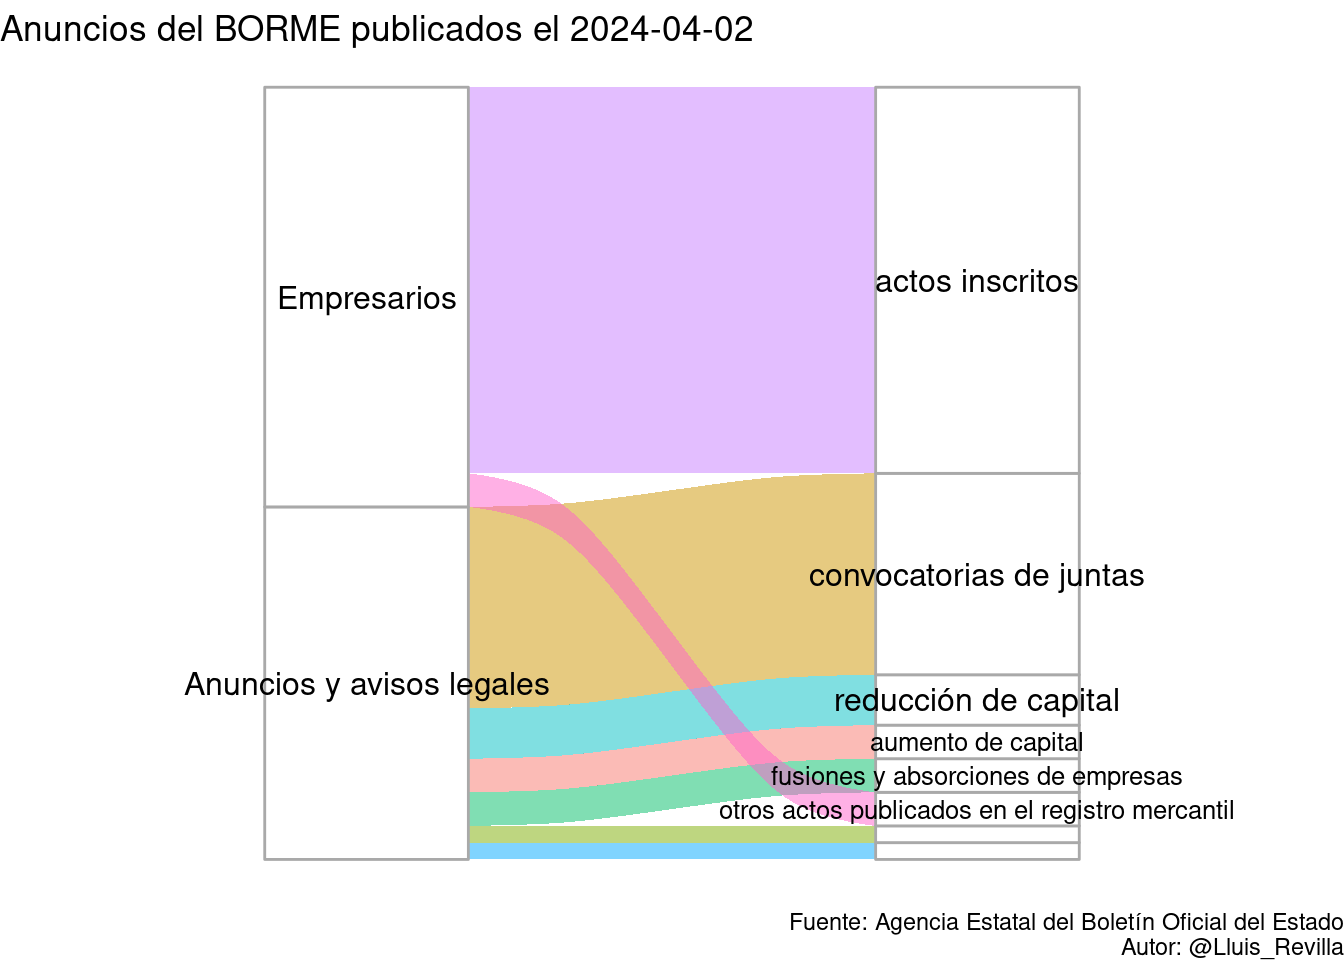
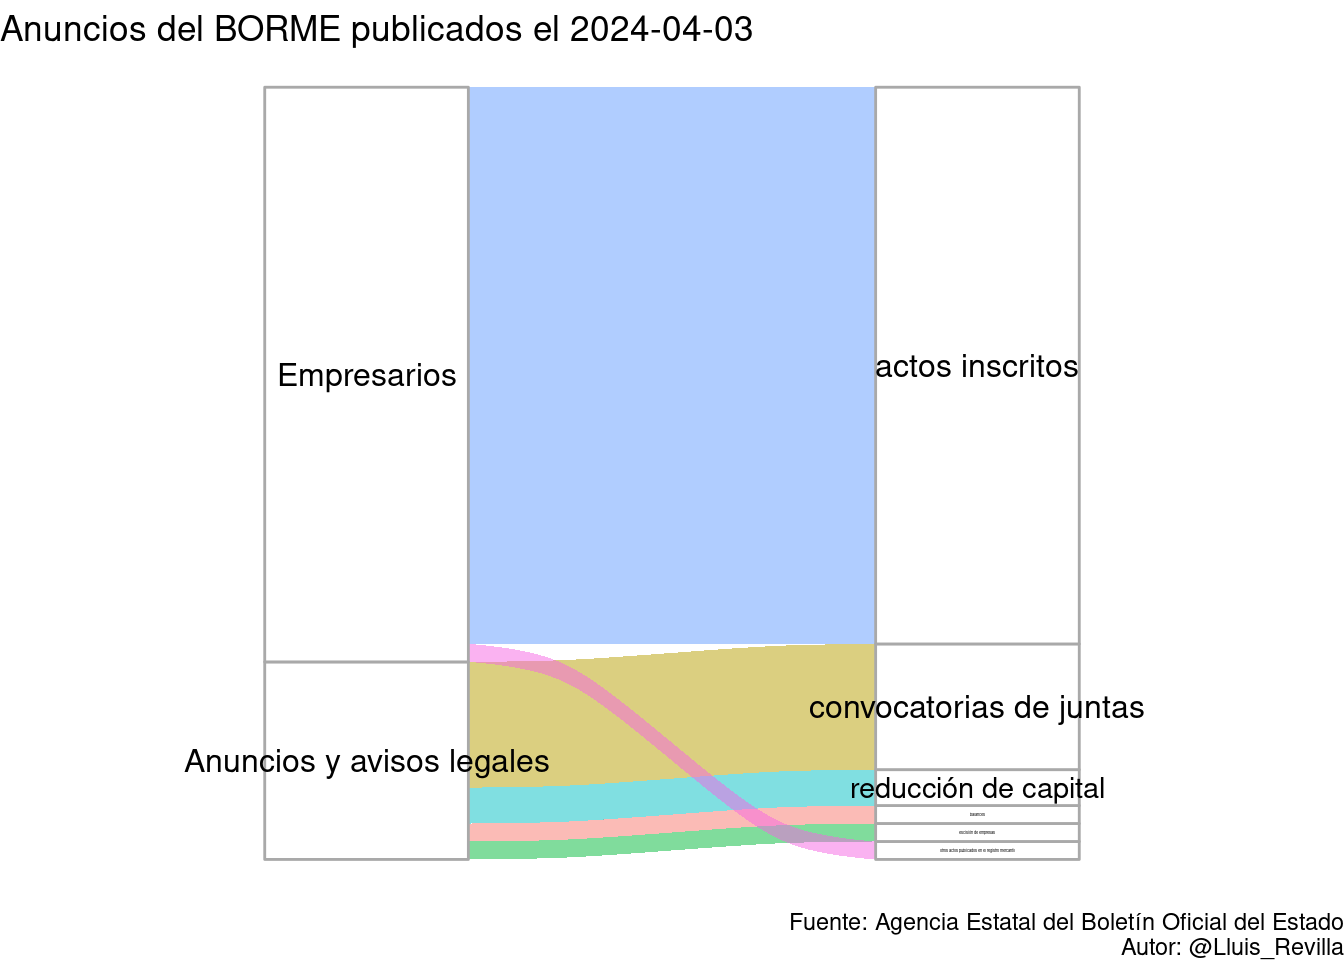
Update BORME

Changed region(s): [[0.125, 0.0938, 0.9062, 0.9062]]

diff --git a/docs/last_BORME.html b/docs/last_BORME.html
@@ -379,14 +379,14 @@ $(document).ready(function () {
 
 <div id="resumen-gráfico" class="section level1">
 <h1>Resumen gráfico</h1>
-<p>Esta página web contiene el último sumario del BORME publicado el 2024-04-02 con 46 publicaciones.</p>
+<p>Esta página web contiene el último sumario del BORME publicado el 2024-04-03 con 43 publicaciones.</p>
 <p><img src="last_BORME_files/figure-html/graphics-1.png" width="672" /></p>
 </div>
 <div id="tabla-de-publicaciones" class="section level1">
 <h1>Tabla de publicaciones</h1>
 <p>Aquí está la tabla completa con enlaces a las publicaciones:</p>
-<div class="datatables html-widget html-fill-item-overflow-hidden html-fill-item" id="htmlwidget-b410982b945f531b51b2" style="width:100%;height:auto;"></div>
-<script type="application/json" data-for="htmlwidget-b410982b945f531b51b2">{"x":{"filter":"top","vertical":false,"filterHTML":"<tr>\n  <td><\/td>\n  <td data-type=\"character\" style=\"vertical-align: top;\">\n    <div class=\"form-group has-feedback\" style=\"margin-bottom: auto;\">\n      <input type=\"search\" placeholder=\"All\" class=\"form-control\" style=\"width: 100%;\"/>\n      <span class=\"glyphicon glyphicon-remove-circle form-control-feedback\"><\/span>\n    <\/div>\n  <\/td>\n  <td data-type=\"character\" style=\"vertical-align: top;\">\n    <div class=\"form-group has-feedback\" style=\"margin-bottom: auto;\">\n      <input type=\"search\" placeholder=\"All\" class=\"form-control\" style=\"width: 100%;\"/>\n      <span class=\"glyphicon glyphicon-remove-circle form-control-feedback\"><\/span>\n    <\/div>\n  <\/td>\n  <td data-type=\"character\" style=\"vertical-align: top;\">\n    <div class=\"form-group has-feedback\" style=\"margin-bottom: auto;\">\n      <input type=\"search\" placeholder=\"All\" class=\"form-control\" style=\"width: 100%;\" disabled=\"\"/>\n      <span class=\"glyphicon glyphicon-remove-circle form-control-feedback\"><\/span>\n    <\/div>\n  <\/td>\n  <td data-type=\"character\" style=\"vertical-align: top;\">\n    <div class=\"form-group has-feedback\" style=\"margin-bottom: auto;\">\n      <input type=\"search\" placeholder=\"All\" class=\"form-control\" style=\"width: 100%;\"/>\n      <span class=\"glyphicon glyphicon-remove-circle form-control-feedback\"><\/span>\n    <\/div>\n  <\/td>\n<\/tr>","data":[["1","2","3","4","5","6","7","8","9","10","11","12","13","14","15","16","17","18","19","20","21","22","23","24","25","26","27","28","29","30","31","32","33","34","35","36","37","38","39","40","41","42","43","44","45","46"],["SECCIÓN PRIMERA. Empresarios","SECCIÓN PRIMERA. Empresarios","SECCIÓN PRIMERA. Empresarios","SECCIÓN PRIMERA. Empresarios","SECCIÓN PRIMERA. Empresarios","SECCIÓN PRIMERA. Empresarios","SECCIÓN PRIMERA. Empresarios","SECCIÓN PRIMERA. Empresarios","SECCIÓN PRIMERA. Empresarios","SECCIÓN PRIMERA. Empresarios","SECCIÓN PRIMERA. Empresarios","SECCIÓN PRIMERA. Empresarios","SECCIÓN PRIMERA. Empresarios","SECCIÓN PRIMERA. Empresarios","SECCIÓN PRIMERA. Empresarios","SECCIÓN PRIMERA. Empresarios","SECCIÓN PRIMERA. Empresarios","SECCIÓN PRIMERA. Empresarios","SECCIÓN PRIMERA. Empresarios","SECCIÓN PRIMERA. Empresarios","SECCIÓN PRIMERA. Empresarios","SECCIÓN PRIMERA. Empresarios","SECCIÓN PRIMERA. Empresarios","SECCIÓN PRIMERA. Empresarios","SECCIÓN PRIMERA. Empresarios","SECCIÓN SEGUNDA. Anuncios y avisos legales","SECCIÓN SEGUNDA. Anuncios y avisos legales","SECCIÓN SEGUNDA. Anuncios y avisos legales","SECCIÓN SEGUNDA. Anuncios y avisos legales","SECCIÓN SEGUNDA. Anuncios y avisos legales","SECCIÓN SEGUNDA. Anuncios y avisos legales","SECCIÓN SEGUNDA. Anuncios y avisos legales","SECCIÓN SEGUNDA. Anuncios y avisos legales","SECCIÓN SEGUNDA. Anuncios y avisos legales","SECCIÓN SEGUNDA. Anuncios y avisos legales","SECCIÓN SEGUNDA. Anuncios y avisos legales","SECCIÓN SEGUNDA. Anuncios y avisos legales","SECCIÓN SEGUNDA. Anuncios y avisos legales","SECCIÓN SEGUNDA. Anuncios y avisos legales","SECCIÓN SEGUNDA. Anuncios y avisos legales","SECCIÓN SEGUNDA. Anuncios y avisos legales","SECCIÓN SEGUNDA. Anuncios y avisos legales","SECCIÓN SEGUNDA. Anuncios y avisos legales","SECCIÓN SEGUNDA. Anuncios y avisos legales","SECCIÓN SEGUNDA. Anuncios y avisos legales","SECCIÓN SEGUNDA. Anuncios y avisos legales"],["Actos inscritos","Actos inscritos","Actos inscritos","Actos inscritos","Actos inscritos","Actos inscritos","Actos inscritos","Actos inscritos","Actos inscritos","Actos inscritos","Actos inscritos","Actos inscritos","Actos inscritos","Actos inscritos","Actos inscritos","Actos inscritos","Actos inscritos","Actos inscritos","Actos inscritos","Actos inscritos","Actos inscritos","Actos inscritos","Actos inscritos","Otros actos publicados en el Registro Mercantil","Otros actos publicados en el Registro Mercantil","CONVOCATORIAS DE JUNTAS","CONVOCATORIAS DE JUNTAS","CONVOCATORIAS DE JUNTAS","CONVOCATORIAS DE JUNTAS","CONVOCATORIAS DE JUNTAS","CONVOCATORIAS DE JUNTAS","CONVOCATORIAS DE JUNTAS","CONVOCATORIAS DE JUNTAS","CONVOCATORIAS DE JUNTAS","CONVOCATORIAS DE JUNTAS","CONVOCATORIAS DE JUNTAS","CONVOCATORIAS DE JUNTAS","FUSIONES Y ABSORCIONES DE EMPRESAS","FUSIONES Y ABSORCIONES DE EMPRESAS","ESCISIÓN DE EMPRESAS","TRANSFORMACIÓN DE EMPRESAS","AUMENTO DE CAPITAL","AUMENTO DE CAPITAL","REDUCCIÓN DE CAPITAL","REDUCCIÓN DE CAPITAL","REDUCCIÓN DE CAPITAL"],[null,null,null,null,null,null,null,null,null,null,null,null,null,null,null,null,null,null,null,null,null,null,null,null,null,null,null,null,null,null,null,null,null,null,null,null,null,null,null,null,null,null,null,null,null,null],["BORME-A-2024-64-03","BORME-A-2024-64-04","BORME-A-2024-64-06","BORME-A-2024-64-07","BORME-A-2024-64-08","BORME-A-2024-64-15","BORME-A-2024-64-17","BORME-A-2024-64-19","BORME-A-2024-64-23","BORME-A-2024-64-24","BORME-A-2024-64-25","BORME-A-2024-64-26","BORME-A-2024-64-28","BORME-A-2024-64-29","BORME-A-2024-64-30","BORME-A-2024-64-32","BORME-A-2024-64-35","BORME-A-2024-64-36","BORME-A-2024-64-40","BORME-A-2024-64-43","BORME-A-2024-64-46","BORME-A-2024-64-47","BORME-A-2024-64-99","BORME-B-2024-64-28","BORME-B-2024-64-48","BORME-C-2024-1074","BORME-C-2024-1075","BORME-C-2024-1076","BORME-C-2024-1077","BORME-C-2024-1078","BORME-C-2024-1079","BORME-C-2024-1080","BORME-C-2024-1081","BORME-C-2024-1082","BORME-C-2024-1083","BORME-C-2024-1084","BORME-C-2024-1085","BORME-C-2024-1086","BORME-C-2024-1087","BORME-C-2024-1088","BORME-C-2024-1089","BORME-C-2024-1090","BORME-C-2024-1091","BORME-C-2024-1092","BORME-C-2024-1093","BORME-C-2024-1094"]],"container":"<table class=\"display\">\n  <thead>\n    <tr>\n      <th> <\/th>\n      <th>Sección<\/th>\n      <th>Emisor<\/th>\n      <th>Texto<\/th>\n      <th>Link<\/th>\n    <\/tr>\n  <\/thead>\n<\/table>","options":{"pageLength":10,"autoWidth":true,"columnDefs":[{"orderable":false,"targets":0},{"name":" ","targets":0},{"name":"Sección","targets":1},{"name":"Emisor","targets":2},{"name":"Texto","targets":3},{"name":"Link","targets":4}],"order":[],"orderClasses":false,"orderCellsTop":true}},"evals":[],"jsHooks":[]}</script>
+<div class="datatables html-widget html-fill-item-overflow-hidden html-fill-item" id="htmlwidget-71986d544ce2831d743b" style="width:100%;height:auto;"></div>
+<script type="application/json" data-for="htmlwidget-71986d544ce2831d743b">{"x":{"filter":"top","vertical":false,"filterHTML":"<tr>\n  <td><\/td>\n  <td data-type=\"character\" style=\"vertical-align: top;\">\n    <div class=\"form-group has-feedback\" style=\"margin-bottom: auto;\">\n      <input type=\"search\" placeholder=\"All\" class=\"form-control\" style=\"width: 100%;\"/>\n      <span class=\"glyphicon glyphicon-remove-circle form-control-feedback\"><\/span>\n    <\/div>\n  <\/td>\n  <td data-type=\"character\" style=\"vertical-align: top;\">\n    <div class=\"form-group has-feedback\" style=\"margin-bottom: auto;\">\n      <input type=\"search\" placeholder=\"All\" class=\"form-control\" style=\"width: 100%;\"/>\n      <span class=\"glyphicon glyphicon-remove-circle form-control-feedback\"><\/span>\n    <\/div>\n  <\/td>\n  <td data-type=\"character\" style=\"vertical-align: top;\">\n    <div class=\"form-group has-feedback\" style=\"margin-bottom: auto;\">\n      <input type=\"search\" placeholder=\"All\" class=\"form-control\" style=\"width: 100%;\" disabled=\"\"/>\n      <span class=\"glyphicon glyphicon-remove-circle form-control-feedback\"><\/span>\n    <\/div>\n  <\/td>\n  <td data-type=\"character\" style=\"vertical-align: top;\">\n    <div class=\"form-group has-feedback\" style=\"margin-bottom: auto;\">\n      <input type=\"search\" placeholder=\"All\" class=\"form-control\" style=\"width: 100%;\"/>\n      <span class=\"glyphicon glyphicon-remove-circle form-control-feedback\"><\/span>\n    <\/div>\n  <\/td>\n<\/tr>","data":[["1","2","3","4","5","6","7","8","9","10","11","12","13","14","15","16","17","18","19","20","21","22","23","24","25","26","27","28","29","30","31","32","33","34","35","36","37","38","39","40","41","42","43"],["SECCIÓN PRIMERA. Empresarios","SECCIÓN PRIMERA. Empresarios","SECCIÓN PRIMERA. Empresarios","SECCIÓN PRIMERA. Empresarios","SECCIÓN PRIMERA. Empresarios","SECCIÓN PRIMERA. Empresarios","SECCIÓN PRIMERA. Empresarios","SECCIÓN PRIMERA. Empresarios","SECCIÓN PRIMERA. Empresarios","SECCIÓN PRIMERA. Empresarios","SECCIÓN PRIMERA. Empresarios","SECCIÓN PRIMERA. Empresarios","SECCIÓN PRIMERA. Empresarios","SECCIÓN PRIMERA. Empresarios","SECCIÓN PRIMERA. Empresarios","SECCIÓN PRIMERA. Empresarios","SECCIÓN PRIMERA. Empresarios","SECCIÓN PRIMERA. Empresarios","SECCIÓN PRIMERA. Empresarios","SECCIÓN PRIMERA. Empresarios","SECCIÓN PRIMERA. Empresarios","SECCIÓN PRIMERA. Empresarios","SECCIÓN PRIMERA. Empresarios","SECCIÓN PRIMERA. Empresarios","SECCIÓN PRIMERA. Empresarios","SECCIÓN PRIMERA. Empresarios","SECCIÓN PRIMERA. Empresarios","SECCIÓN PRIMERA. Empresarios","SECCIÓN PRIMERA. Empresarios","SECCIÓN PRIMERA. Empresarios","SECCIÓN PRIMERA. Empresarios","SECCIÓN PRIMERA. Empresarios","SECCIÓN SEGUNDA. Anuncios y avisos legales","SECCIÓN SEGUNDA. Anuncios y avisos legales","SECCIÓN SEGUNDA. Anuncios y avisos legales","SECCIÓN SEGUNDA. Anuncios y avisos legales","SECCIÓN SEGUNDA. Anuncios y avisos legales","SECCIÓN SEGUNDA. Anuncios y avisos legales","SECCIÓN SEGUNDA. Anuncios y avisos legales","SECCIÓN SEGUNDA. Anuncios y avisos legales","SECCIÓN SEGUNDA. Anuncios y avisos legales","SECCIÓN SEGUNDA. Anuncios y avisos legales","SECCIÓN SEGUNDA. Anuncios y avisos legales"],["Actos inscritos","Actos inscritos","Actos inscritos","Actos inscritos","Actos inscritos","Actos inscritos","Actos inscritos","Actos inscritos","Actos inscritos","Actos inscritos","Actos inscritos","Actos inscritos","Actos inscritos","Actos inscritos","Actos inscritos","Actos inscritos","Actos inscritos","Actos inscritos","Actos inscritos","Actos inscritos","Actos inscritos","Actos inscritos","Actos inscritos","Actos inscritos","Actos inscritos","Actos inscritos","Actos inscritos","Actos inscritos","Actos inscritos","Actos inscritos","Actos inscritos","Otros actos publicados en el Registro Mercantil","BALANCES","CONVOCATORIAS DE JUNTAS","CONVOCATORIAS DE JUNTAS","CONVOCATORIAS DE JUNTAS","CONVOCATORIAS DE JUNTAS","CONVOCATORIAS DE JUNTAS","CONVOCATORIAS DE JUNTAS","CONVOCATORIAS DE JUNTAS","ESCISIÓN DE EMPRESAS","REDUCCIÓN DE CAPITAL","REDUCCIÓN DE CAPITAL"],[null,null,null,null,null,null,null,null,null,null,null,null,null,null,null,null,null,null,null,null,null,null,null,null,null,null,null,null,null,null,null,null,null,null,null,null,null,null,null,null,null,null,null],["BORME-A-2024-65-03","BORME-A-2024-65-04","BORME-A-2024-65-06","BORME-A-2024-65-07","BORME-A-2024-65-08","BORME-A-2024-65-10","BORME-A-2024-65-11","BORME-A-2024-65-12","BORME-A-2024-65-15","BORME-A-2024-65-17","BORME-A-2024-65-18","BORME-A-2024-65-22","BORME-A-2024-65-24","BORME-A-2024-65-25","BORME-A-2024-65-28","BORME-A-2024-65-29","BORME-A-2024-65-30","BORME-A-2024-65-31","BORME-A-2024-65-33","BORME-A-2024-65-35","BORME-A-2024-65-36","BORME-A-2024-65-38","BORME-A-2024-65-40","BORME-A-2024-65-42","BORME-A-2024-65-43","BORME-A-2024-65-44","BORME-A-2024-65-45","BORME-A-2024-65-46","BORME-A-2024-65-50","BORME-A-2024-65-51","BORME-A-2024-65-99","BORME-B-2024-65-42","BORME-C-2024-1095","BORME-C-2024-1096","BORME-C-2024-1097","BORME-C-2024-1098","BORME-C-2024-1099","BORME-C-2024-1100","BORME-C-2024-1101","BORME-C-2024-1102","BORME-C-2024-1103","BORME-C-2024-1104","BORME-C-2024-1105"]],"container":"<table class=\"display\">\n  <thead>\n    <tr>\n      <th> <\/th>\n      <th>Sección<\/th>\n      <th>Emisor<\/th>\n      <th>Texto<\/th>\n      <th>Link<\/th>\n    <\/tr>\n  <\/thead>\n<\/table>","options":{"pageLength":10,"autoWidth":true,"columnDefs":[{"orderable":false,"targets":0},{"name":" ","targets":0},{"name":"Sección","targets":1},{"name":"Emisor","targets":2},{"name":"Texto","targets":3},{"name":"Link","targets":4}],"order":[],"orderClasses":false,"orderCellsTop":true}},"evals":[],"jsHooks":[]}</script>
 </div>
 
 
